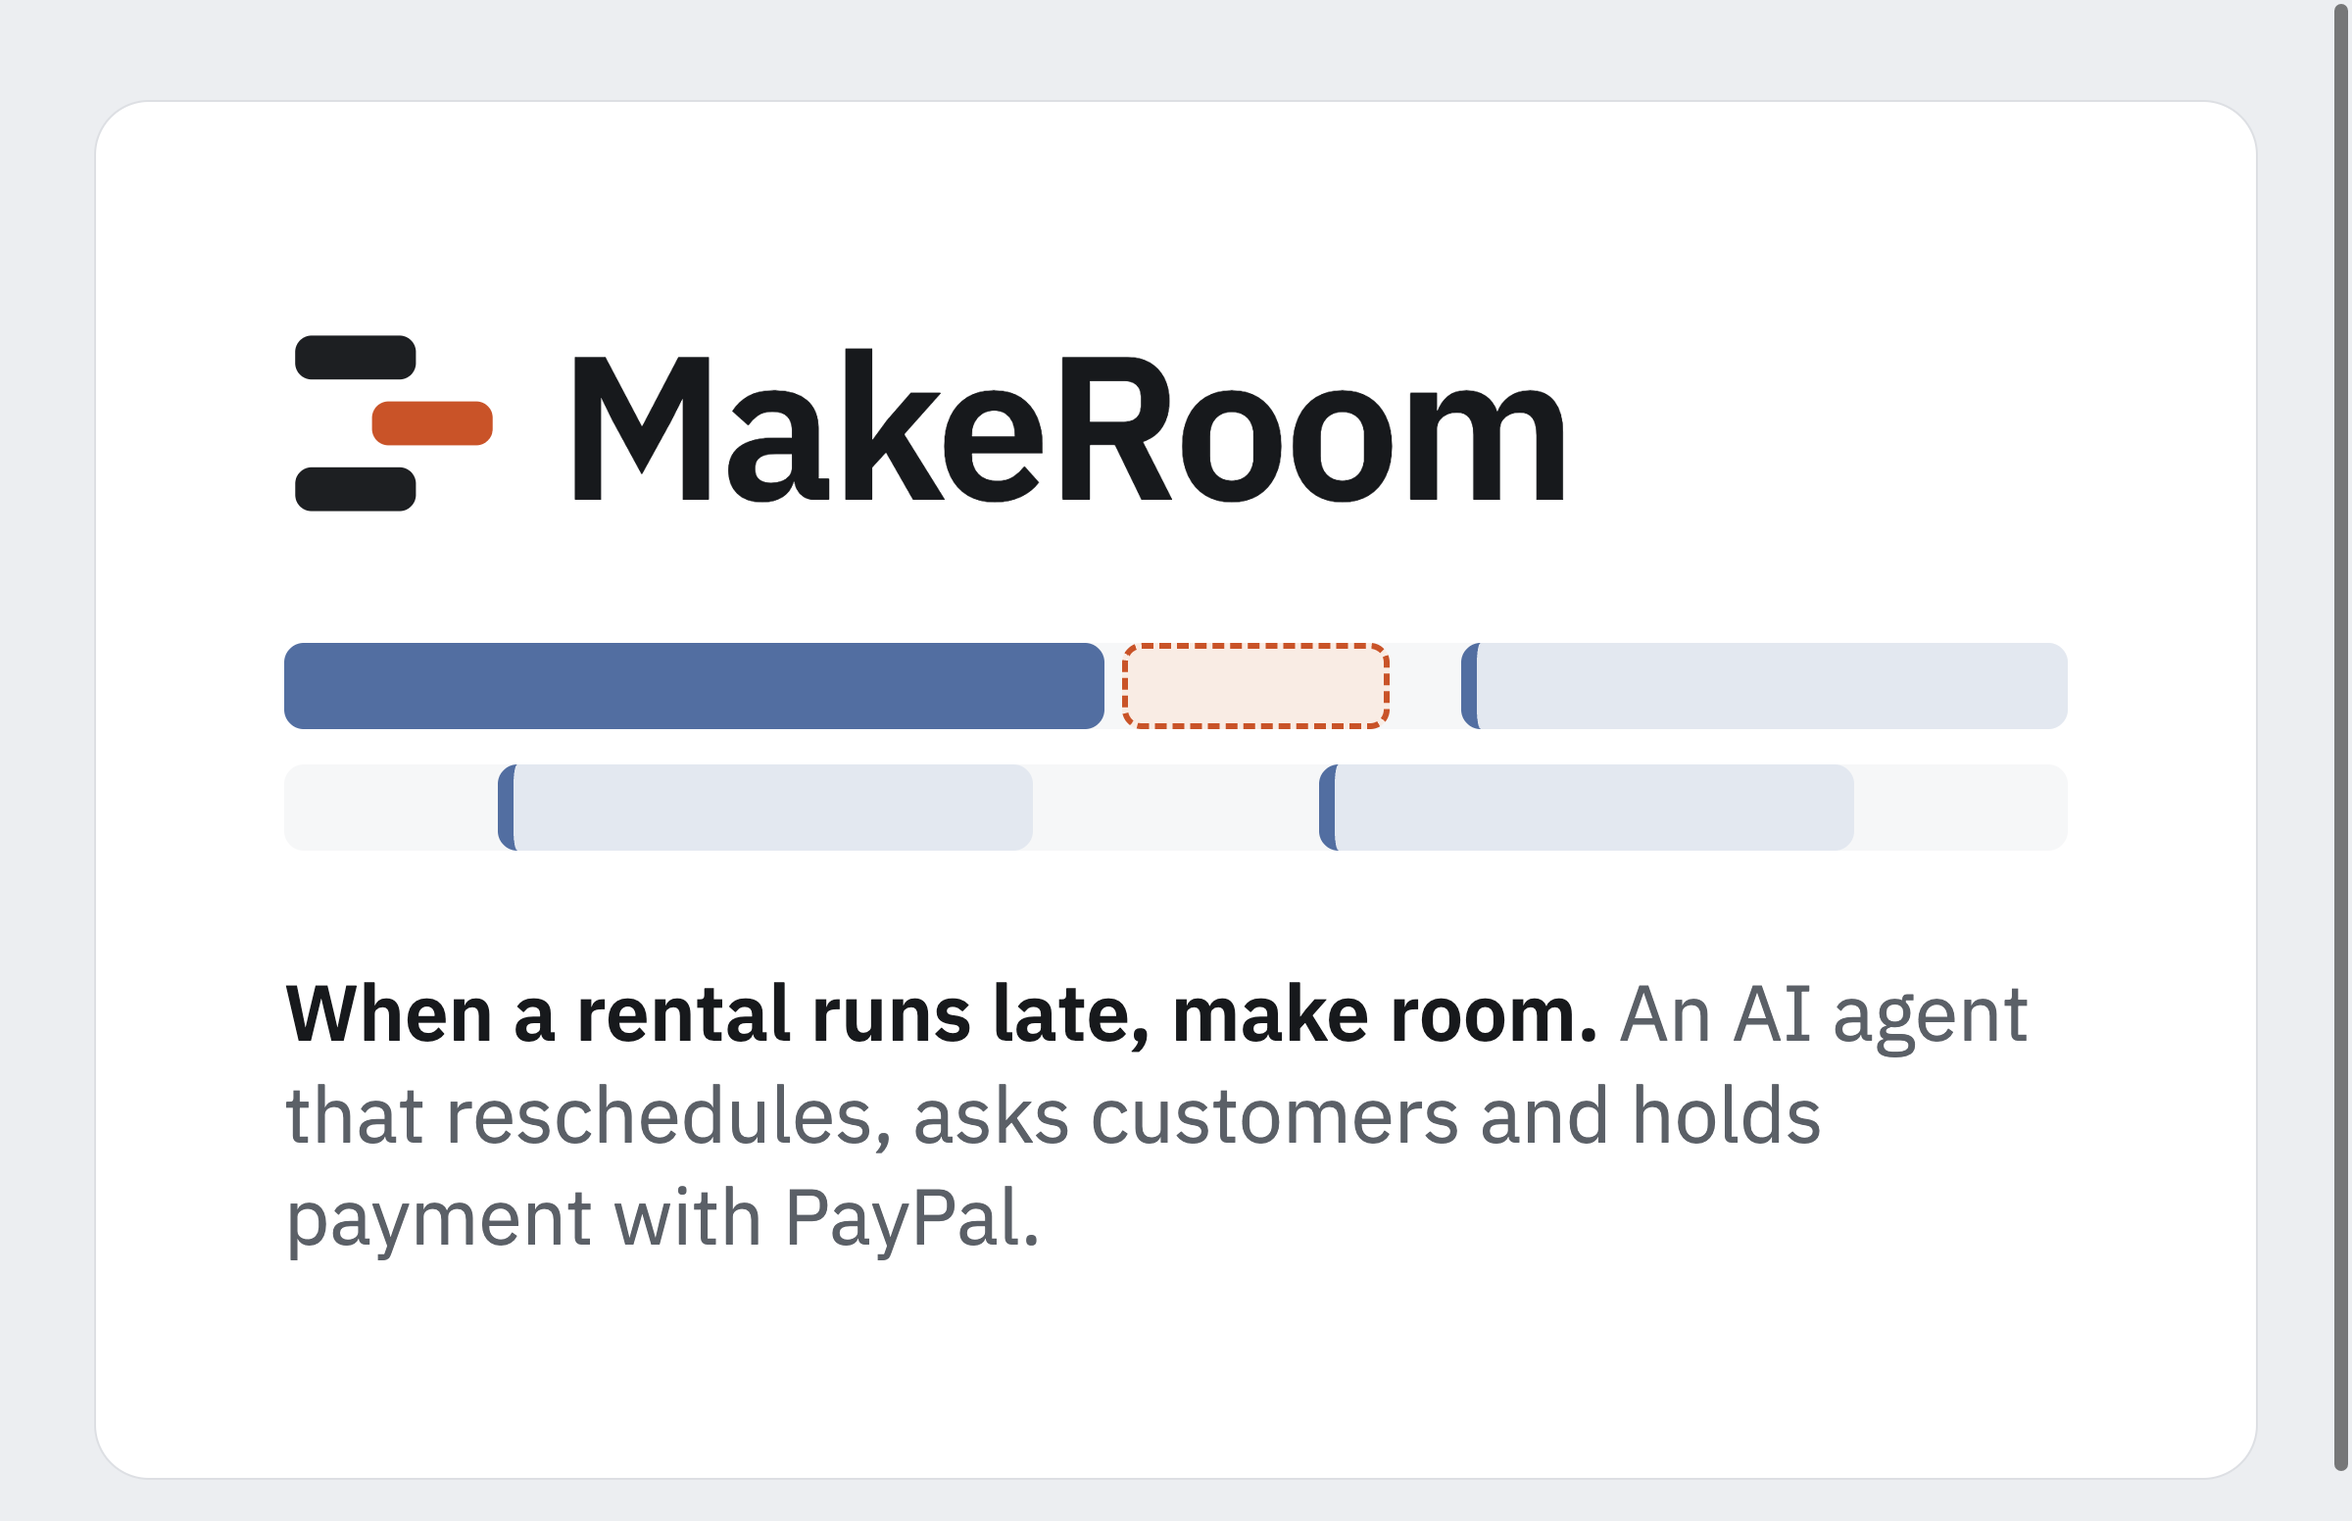
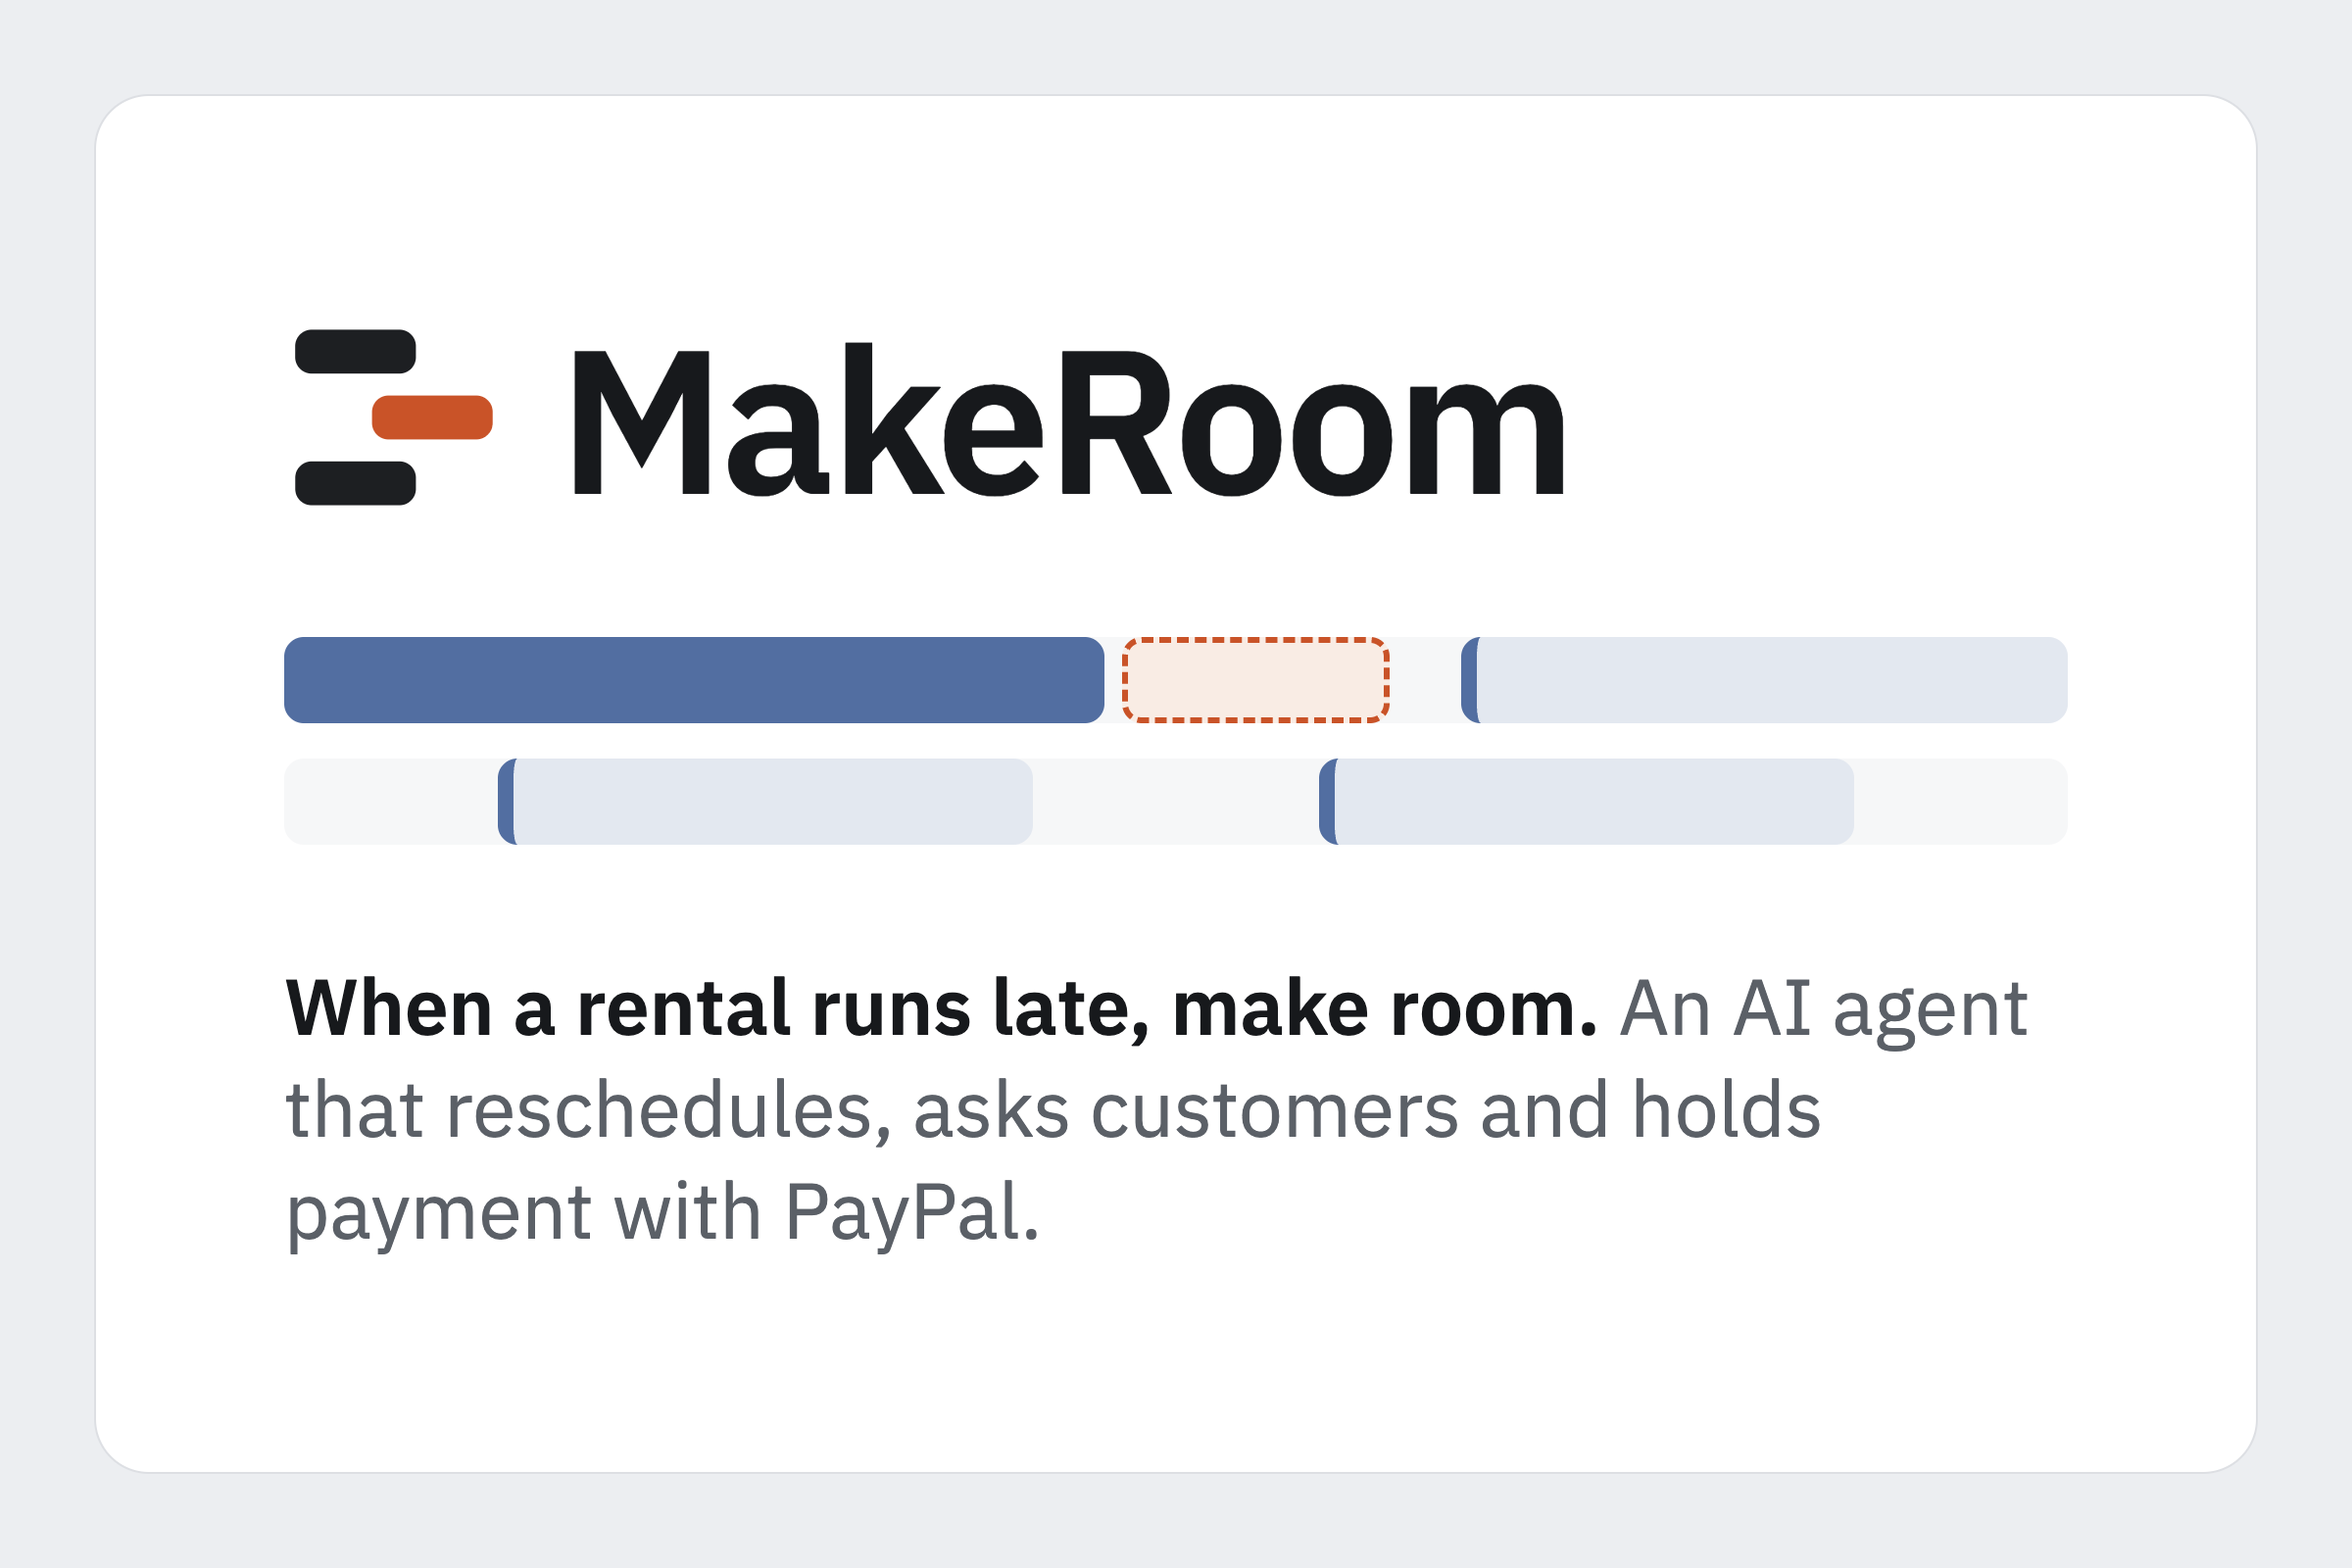
Auto-update 2 files

diff --git a/docs/devpost/thumbnail.html b/docs/devpost/thumbnail.html
@@ -6,7 +6,8 @@
 <link href="https://fonts.googleapis.com/css2?family=IBM+Plex+Sans:wght@400;600&display=swap" rel="stylesheet" />
 <style>
   /* Devpost thumbnail: 3:2, rendered at 1200×800. */
-  html, body { margin: 0; overflow: hidden; }
+  html, body { margin: 0; }
+  html { scrollbar-width: none; }
   body { width: 1200px; height: 800px; background: #eceef1; font-family: 'IBM Plex Sans', sans-serif; color: #17191c; display: flex; align-items: center; justify-content: center; }
   .sheet { width: 1104px; height: 704px; background: #fff; border: 1px solid #dcdfe4; border-radius: 28px; display: flex; flex-direction: column; justify-content: center; padding: 0 96px; box-sizing: border-box; gap: 56px; }
   .brand { display: flex; align-items: center; gap: 28px; }
